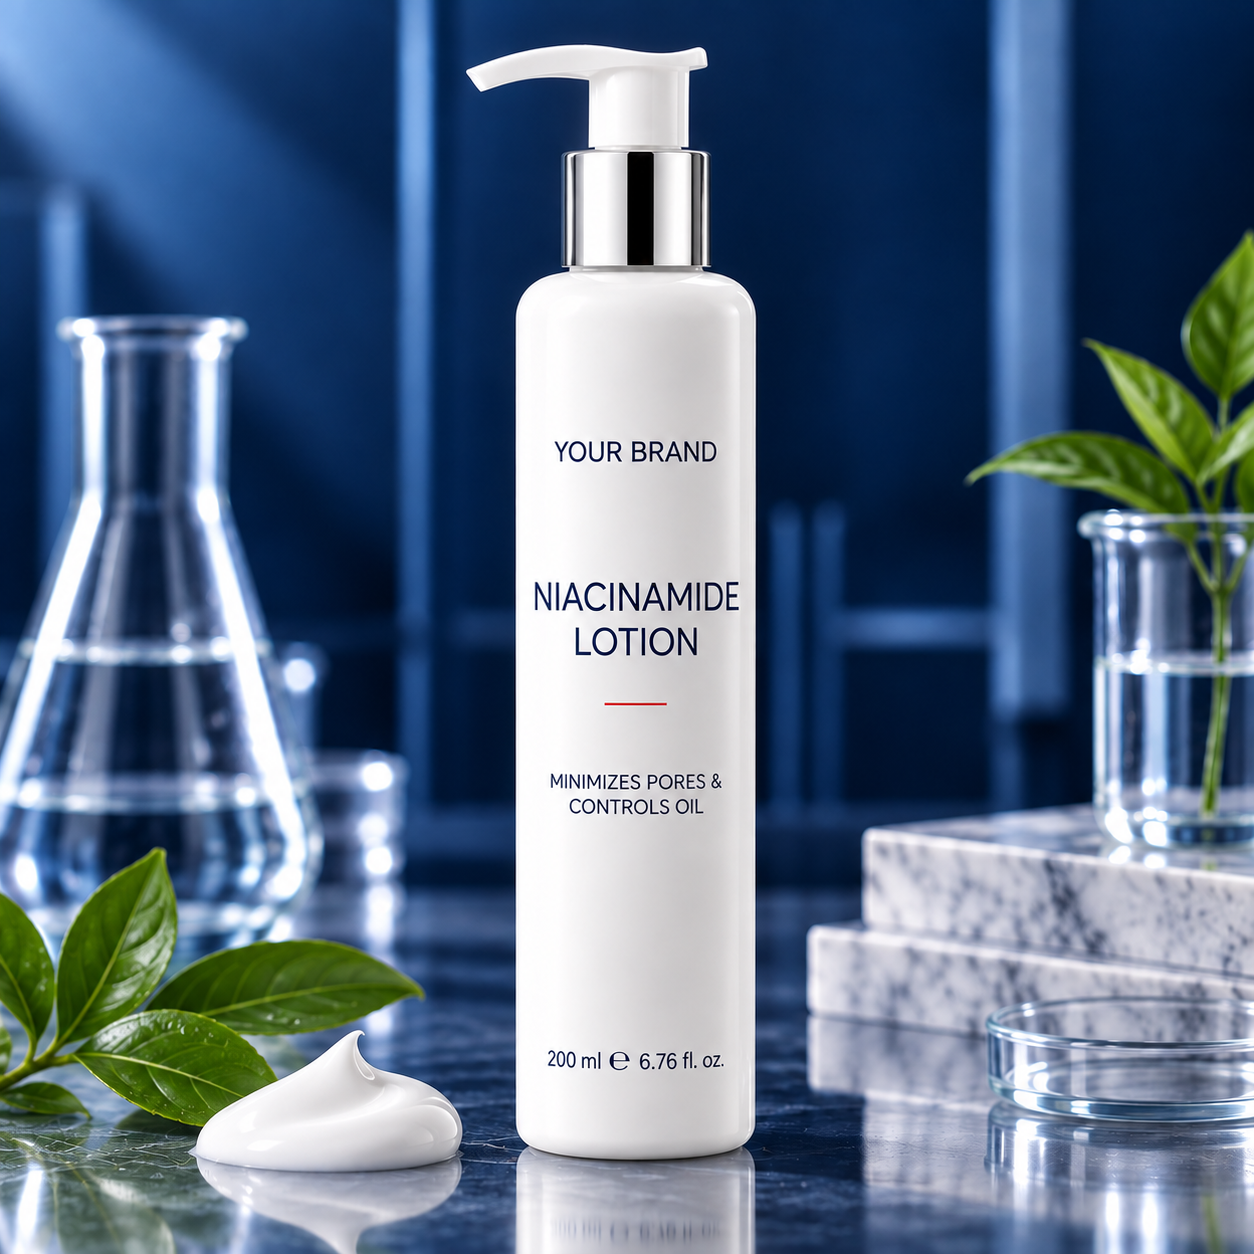
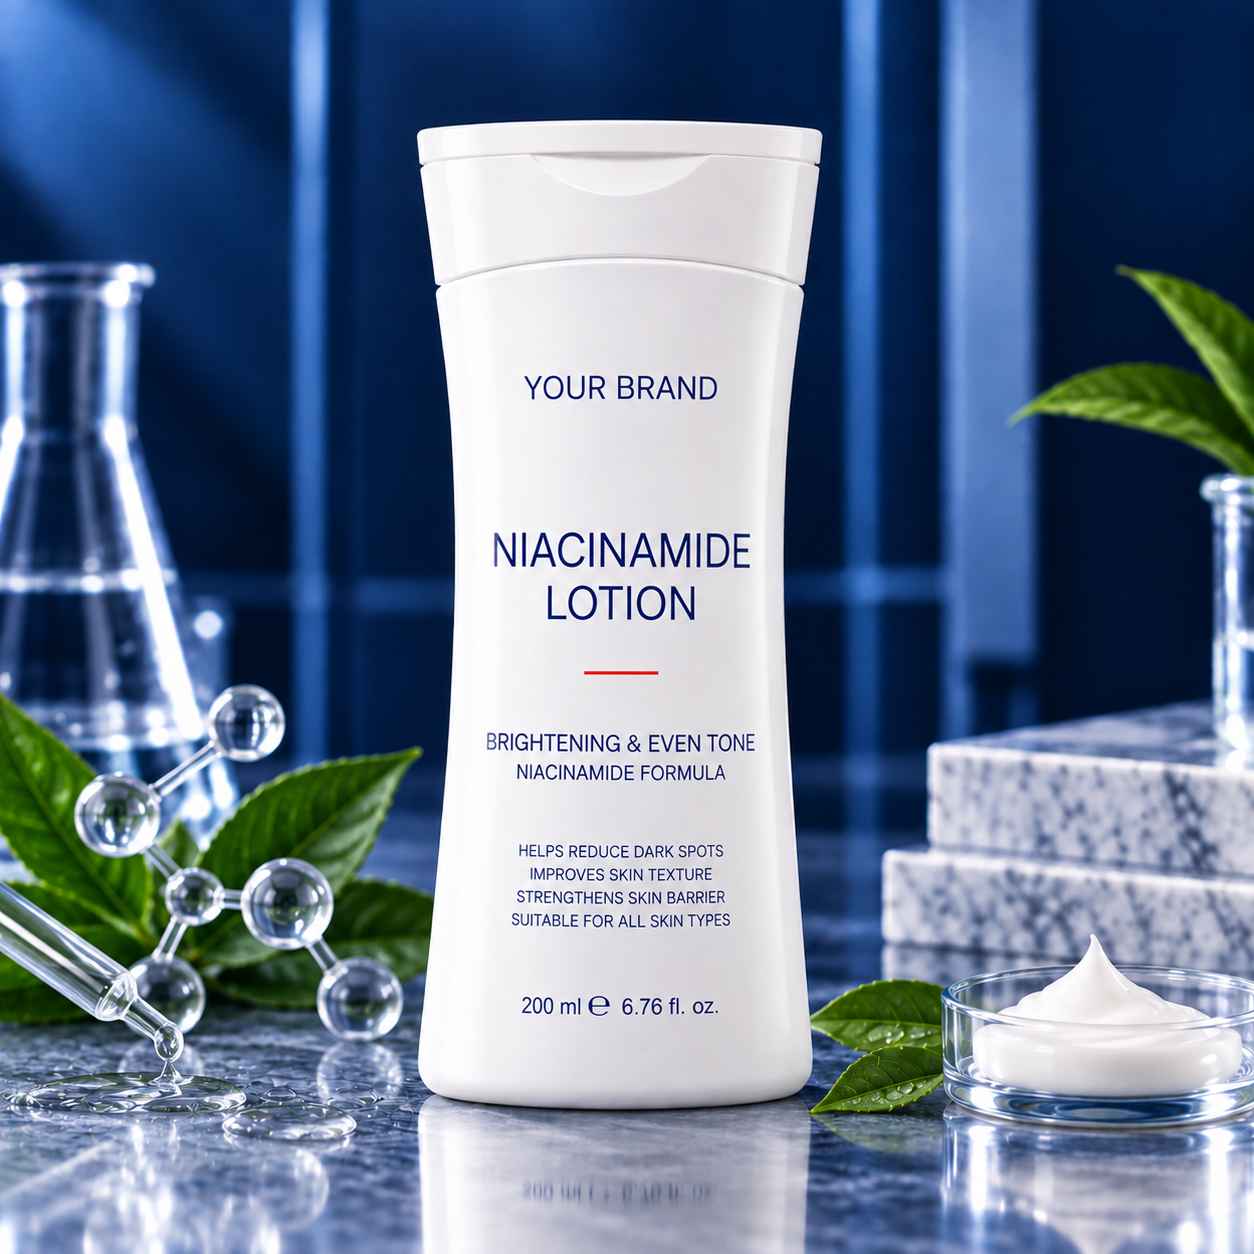
Add new product images: Essential Oils, Facials, new Serums & Shampoos
- Essential Oils (7): Rose, Lavender, Tea Tree, Peppermint, Eucalyptus, Almond, Jojoba
- Facials (7): Scrub, Clay Mask, Toner, Moisturizer, Cleanser, Exfoliator, Sheet Mask
- New Serums (3): All-in-One, Glycolic Acid, Multipurpose
- New Shampoo/Conditioner (11): Amla, Argan, Biotin, Collagen, Color Protect, Deep Conditioner, Ginger, Leave In Conditioner, Milk Protein, Moisturizing Conditioner, Volumizing
- Updated lotion images with new design (10 files)
- Fixed Sheet Mask -> Facial Sheet Mask product name
- insert-products.php updated with all image paths and 14 new products (91 total)

diff --git a/admin/insert-products.php b/admin/insert-products.php
@@ -79,22 +79,38 @@ $products = [
 ['Hair Gel',                  'Hair Care', 'ACM-HC-003', 680, 100, 10, 'ni-hc-3.png'],
 ['Hair Serum',                'Hair Care', 'ACM-HC-004', 650, 100, 10, 'ni-hc-4.png'],
 ['Hair Tonic',                'Hair Care', 'ACM-HC-005', 700, 100, 10, 'ni-hc-5.png'],
-// ── Essential Oils (no images yet) ────────────────────────────
-['Rose Essential Oil',        'Essential Oils', 'ACM-EO-001', 1200, 100, 10, ''],
-['Lavender Essential Oil',    'Essential Oils', 'ACM-EO-002', 1100, 100, 10, ''],
-['Tea Tree Essential Oil',    'Essential Oils', 'ACM-EO-003', 1000, 100, 10, ''],
-['Peppermint Essential Oil',  'Essential Oils', 'ACM-EO-004',  950, 100, 10, ''],
-['Eucalyptus Essential Oil',  'Essential Oils', 'ACM-EO-005',  900, 100, 10, ''],
-['Almond Oil',                'Essential Oils', 'ACM-EO-006',  800, 100, 10, ''],
-['Jojoba Oil',                'Essential Oils', 'ACM-EO-007', 1050, 100, 10, ''],
-// ── Facial (no images yet) ────────────────────────────────────
-['Facial Scrub',              'Facial', 'ACM-FA-001', 580, 100, 10, ''],
-['Facial Clay Mask',          'Facial', 'ACM-FA-002', 650, 100, 10, ''],
-['Facial Toner',              'Facial', 'ACM-FA-003', 520, 100, 10, ''],
-['Facial Moisturizer',        'Facial', 'ACM-FA-004', 700, 100, 10, ''],
-['Facial Cleanser',           'Facial', 'ACM-FA-005', 480, 100, 10, ''],
-['Facial Exfoliator',         'Facial', 'ACM-FA-006', 620, 100, 10, ''],
-['Sheet Mask',                'Facial', 'ACM-FA-007', 850, 100, 10, ''],
+// ── Essential Oils ────────────────────────────────────────────
+['Rose Essential Oil',        'Essential Oils', 'ACM-EO-001', 1200, 100, 10, 'ni-eo-rose.png'],
+['Lavender Essential Oil',    'Essential Oils', 'ACM-EO-002', 1100, 100, 10, 'ni-eo-lavender.png'],
+['Tea Tree Essential Oil',    'Essential Oils', 'ACM-EO-003', 1000, 100, 10, 'ni-eo-tea-tree.png'],
+['Peppermint Essential Oil',  'Essential Oils', 'ACM-EO-004',  950, 100, 10, 'ni-eo-peppermint.png'],
+['Eucalyptus Essential Oil',  'Essential Oils', 'ACM-EO-005',  900, 100, 10, 'ni-eo-eucalyptus.png'],
+['Almond Oil',                'Essential Oils', 'ACM-EO-006',  800, 100, 10, 'ni-eo-almond.png'],
+['Jojoba Oil',                'Essential Oils', 'ACM-EO-007', 1050, 100, 10, 'ni-eo-jojoba.png'],
+// ── Facial ────────────────────────────────────────────────────
+['Facial Scrub',              'Facial', 'ACM-FA-001', 580, 100, 10, 'ni-fa-scrub.png'],
+['Facial Clay Mask',          'Facial', 'ACM-FA-002', 650, 100, 10, 'ni-fa-clay-mask.png'],
+['Facial Toner',              'Facial', 'ACM-FA-003', 520, 100, 10, 'ni-fa-toner.png'],
+['Facial Moisturizer',        'Facial', 'ACM-FA-004', 700, 100, 10, 'ni-fa-moisturizer.png'],
+['Facial Cleanser',           'Facial', 'ACM-FA-005', 480, 100, 10, 'ni-fa-cleanser.png'],
+['Facial Exfoliator',         'Facial', 'ACM-FA-006', 620, 100, 10, 'ni-fa-exfoliator.png'],
+['Facial Sheet Mask',         'Facial', 'ACM-FA-007', 850, 100, 10, 'ni-fa-sheet-mask.png'],
+// ── Serums (new additions) ────────────────────────────────────
+['All-in-One Serum',          'Serums', 'ACM-SR-009', 1400, 100, 10, 'ni-serum-all-in-one.png'],
+['Glycolic Acid Serum',       'Serums', 'ACM-SR-010', 1350, 100, 10, 'ni-serum-glycolic-acid.png'],
+['Multipurpose Serum',        'Serums', 'ACM-SR-011', 1250, 100, 10, 'ni-serum-multipurpose.png'],
+// ── Shampoo & Conditioner (new additions) ─────────────────────
+['Amla Shampoo',              'Shampoo & Conditioner', 'ACM-SH-012', 520, 100, 10, 'ni-sh-amla.png'],
+['Argan Shampoo',             'Shampoo & Conditioner', 'ACM-SH-013', 580, 100, 10, 'ni-sh-argan.png'],
+['Biotin Shampoo',            'Shampoo & Conditioner', 'ACM-SH-014', 600, 100, 10, 'ni-sh-biotin.png'],
+['Collagen Shampoo',          'Shampoo & Conditioner', 'ACM-SH-015', 620, 100, 10, 'ni-sh-collagen.png'],
+['Color Protect Shampoo',     'Shampoo & Conditioner', 'ACM-SH-016', 580, 100, 10, 'ni-sh-color-protect.png'],
+['Deep Conditioner',          'Shampoo & Conditioner', 'ACM-SH-017', 650, 100, 10, 'ni-sh-deep-conditioner.png'],
+['Ginger Shampoo',            'Shampoo & Conditioner', 'ACM-SH-018', 550, 100, 10, 'ni-sh-ginger.png'],
+['Leave In Conditioner',      'Shampoo & Conditioner', 'ACM-SH-019', 680, 100, 10, 'ni-sh-leave-in-conditioner.png'],
+['Milk Protein Shampoo',      'Shampoo & Conditioner', 'ACM-SH-020', 600, 100, 10, 'ni-sh-milk-protein.png'],
+['Moisturizing Conditioner',  'Shampoo & Conditioner', 'ACM-SH-021', 650, 100, 10, 'ni-sh-moisturizing-conditioner.png'],
+['Volumizing Shampoo',        'Shampoo & Conditioner', 'ACM-SH-022', 580, 100, 10, 'ni-sh-volumizing.png'],
 ];
 
 $ins = $pdo->prepare("INSERT INTO products (name,category,sku,price,stock,low_stock_threshold,image) VALUES (?,?,?,?,?,?,?)");
